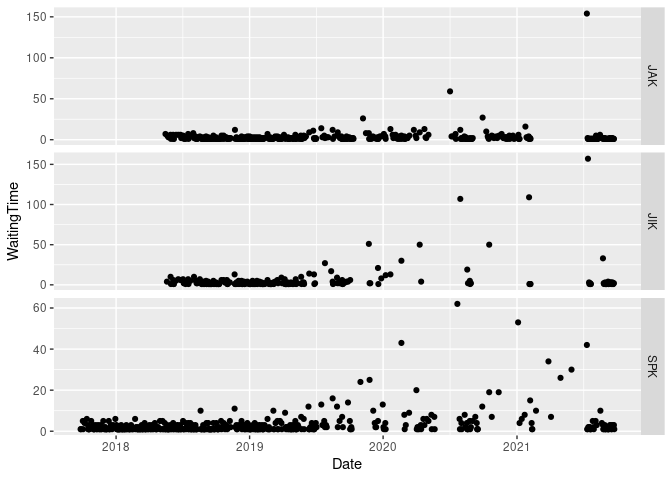
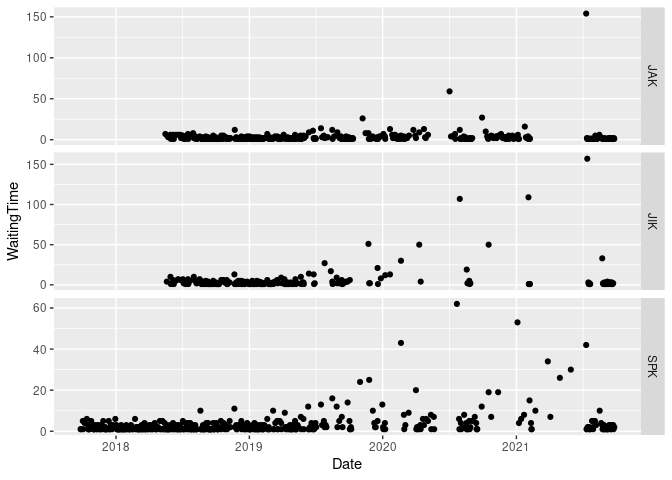
Updated with new data

diff --git a/analysis/nyt_mini_crossword.md b/analysis/nyt_mini_crossword.md
@@ -1,7 +1,7 @@
 ---
 title: "New York Time Mini Crossword"
 author: "Stephen Kaluzny"
-date: "24 September, 2021"
+date: "27 September, 2021"
 output:
   html_document:
     keep_md: true
@@ -172,7 +172,7 @@ d %>%
 
 ## Summary Statistics
 
-Current data set has 1150 observations.
+Current data set has 1153 observations.
 
 
 ```r
@@ -188,9 +188,9 @@ d %>% group_by(Player) %>%
 ## 1 SKK     51       47    21    89     4
 ## 2 AKK     55       55    55    55     1
 ## 3 JIK     79.8     62    13   264   217
-## 4 JAK    103.      86    27   454   407
+## 4 JAK    103.      86    27   454   409
 ## 5 BBK    117.     102    42   350    56
-## 6 SPK     NA       NA    NA    NA   465
+## 6 SPK     NA       NA    NA    NA   466
 ```
 
 ## Subset the Data
@@ -205,7 +205,7 @@ d <- d %>%
   filter(Player %in% c("SPK", "JAK", "JIK"))
 ```
 
-Now have 1089 observations.
+Now have 1092 observations.
 
 ## Plots
 
@@ -348,13 +348,13 @@ sessionInfo()
 ## [1] ggplot2_3.3.5 dplyr_1.0.7   tidyr_1.1.3   assertr_2.8  
 ## 
 ## loaded via a namespace (and not attached):
-##  [1] Rcpp_1.0.7       highr_0.9        pillar_1.6.2     bslib_0.3.0     
+##  [1] Rcpp_1.0.7       highr_0.9        pillar_1.6.3     bslib_0.3.0     
 ##  [5] compiler_4.1.1   jquerylib_0.1.4  tools_4.1.1      digest_0.6.28   
-##  [9] lubridate_1.7.10 jsonlite_1.7.2   evaluate_0.14    lifecycle_1.0.0 
+##  [9] lubridate_1.7.10 jsonlite_1.7.2   evaluate_0.14    lifecycle_1.0.1 
 ## [13] tibble_3.1.4     gtable_0.3.0     pkgconfig_2.0.3  rlang_0.4.11    
 ## [17] cli_3.0.1        DBI_1.1.1        yaml_2.2.1       xfun_0.26       
 ## [21] fastmap_1.1.0    withr_2.4.2      stringr_1.4.0    knitr_1.34      
-## [25] hms_1.1.0        generics_0.1.0   vctrs_0.3.8      sass_0.4.0      
+## [25] hms_1.1.1        generics_0.1.0   vctrs_0.3.8      sass_0.4.0      
 ## [29] rprojroot_2.0.2  grid_4.1.1       tidyselect_1.1.1 here_1.0.1      
 ## [33] glue_1.4.2       R6_2.5.1         fansi_0.5.0      rmarkdown_2.11  
 ## [37] farver_2.1.0     purrr_0.3.4      magrittr_2.0.1   scales_1.1.1    
